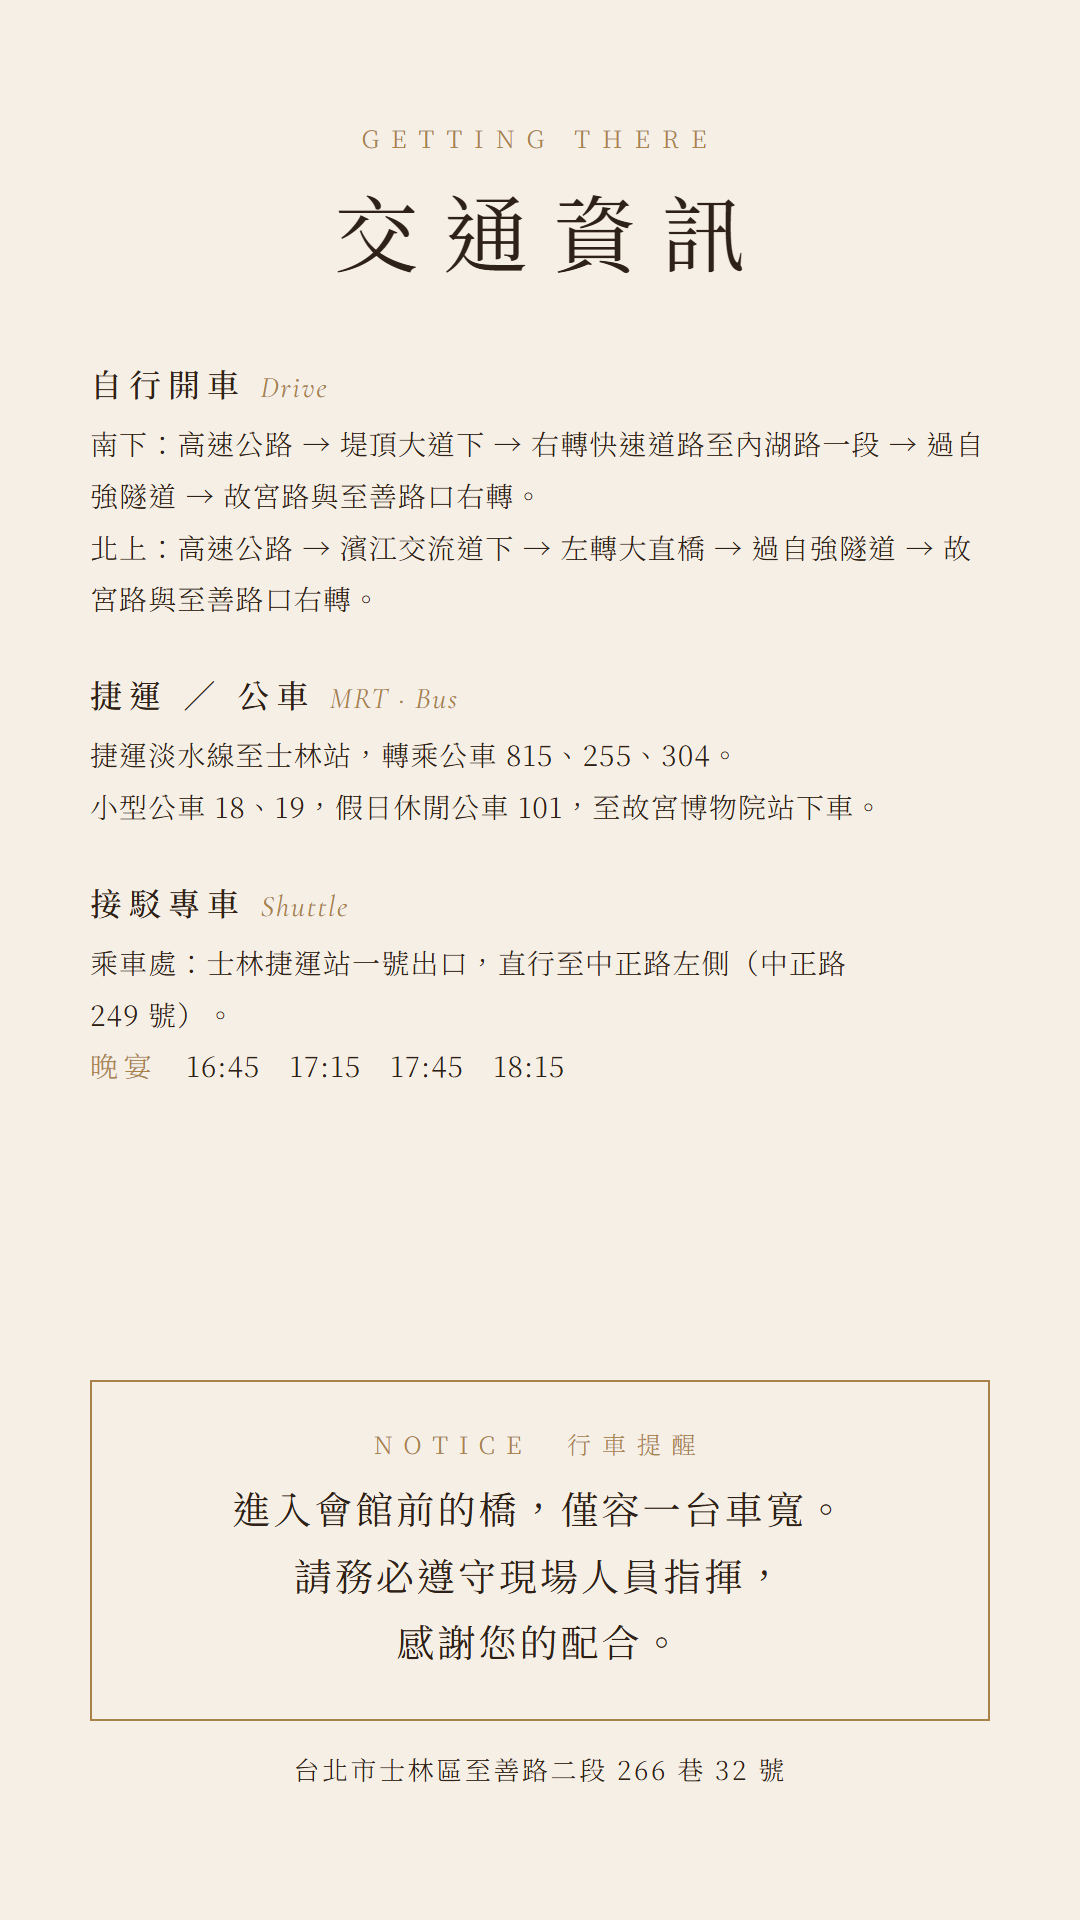
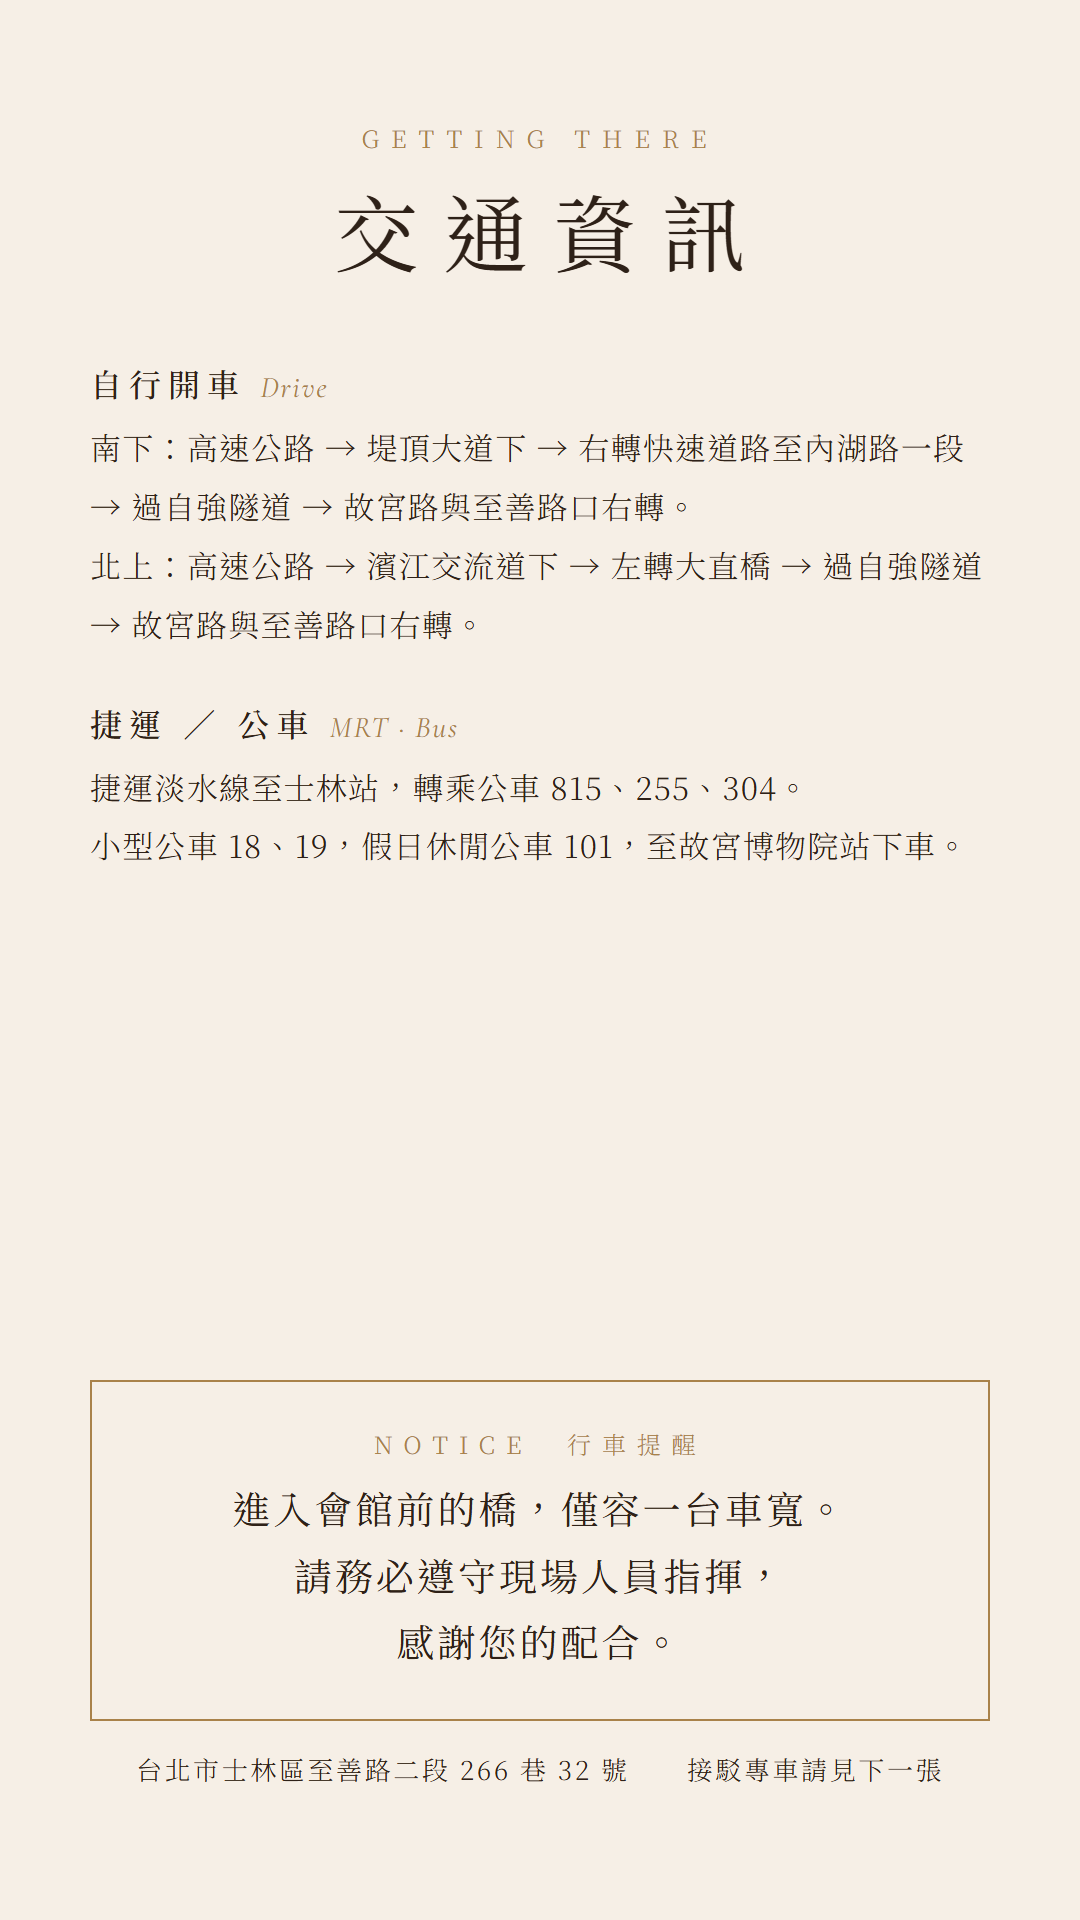
Larger step-by-step shuttle info for elderly guests; add large-print shuttle image

diff --git a/index.html b/index.html
@@ -94,6 +94,21 @@ p{font-size:15px;letter-spacing:.06em}
 .tr p{font-size:14px}
 .times{display:grid;grid-template-columns:auto 1fr;gap:6px 16px;font-size:14px;margin-top:10px}
 .times b{font-weight:400;color:var(--gold);letter-spacing:.2em}
+
+/* shuttle card (large type for elders) */
+.shuttle{background:var(--soft);padding:30px 20px 26px;margin:6px 0 4px;border-top:2px solid var(--gold);text-align:center}
+.sh-t{font-size:24px;font-weight:500;letter-spacing:.2em}
+.sh-t small{font-family:var(--script);font-style:italic;font-weight:400;font-size:18px;color:var(--gold);letter-spacing:.04em;margin-left:8px}
+.sh-lead{font-size:18px;line-height:1.8;margin:12px 0 22px}
+.sh-label{font-size:13px;letter-spacing:.4em;color:var(--gold);margin:6px 0 12px}
+.sh-times{display:grid;grid-template-columns:1fr 1fr;gap:10px}
+.sh-times div{border:1px solid var(--ink);padding:14px 0;font-size:30px;letter-spacing:.08em;font-weight:400;font-variant-numeric:lining-nums tabular-nums;background:var(--bg)}
+.sh-note{font-size:16px;line-height:1.8;margin:14px 0 26px;text-align:left}
+.sh-note b{font-weight:500;color:#7A5A2B}
+.sh-steps{list-style:none;padding:0;text-align:left;margin:0}
+.sh-steps li{display:flex;gap:14px;align-items:flex-start;margin-bottom:16px;font-size:18px;line-height:1.7}
+.sh-steps span{flex:0 0 36px;height:36px;border-radius:50%;background:var(--ink);color:var(--bg);display:flex;align-items:center;justify-content:center;font-size:18px;margin-top:2px}
+.sh-steps b{font-weight:500}
 footer{padding:70px 24px 90px;text-align:center}
 footer .script{font-size:30px}
 footer p{margin-top:10px;font-size:13px;letter-spacing:.3em;color:var(--gold)}
@@ -169,6 +184,29 @@ footer p{margin-top:10px;font-size:13px;letter-spacing:.3em;color:var(--gold)}
     <h2>交通資訊</h2>
   </div>
 
+
+  <div class="shuttle">
+    <div class="sh-t">接駁專車 <small>Shuttle Bus</small></div>
+    <p class="sh-lead">從「士林捷運站」搭專車到會館，<br>不用自己走路或找路。</p>
+
+    <div class="sh-label">發車時間（晚宴）</div>
+    <div class="sh-times">
+      <div>16:45</div><div>17:15</div><div>17:45</div><div>18:15</div>
+    </div>
+    <p class="sh-note">典禮 17:30 開始，<b>建議搭 16:45 或 17:15 的班次</b>，並提早 10 分鐘到乘車處等候。</p>
+
+    <div class="sh-label">怎麼搭</div>
+    <ol class="sh-steps">
+      <li><span>1</span><div>搭捷運<b>淡水線</b>到<b>「士林站」</b></div></li>
+      <li><span>2</span><div>從 <b>1 號出口</b>出站</div></li>
+      <li><span>3</span><div><b>直走</b>，到<b>中正路左側</b><br>（中正路 249 號），找「青青接駁專車」</div></li>
+      <li><span>4</span><div>依發車時間上車</div></li>
+    </ol>
+    <div class="btns" style="margin-top:20px">
+      <a class="btn fill" target="_blank" rel="noopener" href="https://www.google.com/maps/search/?api=1&query=%E5%8F%B0%E5%8C%97%E5%B8%82%E5%A3%AB%E6%9E%97%E5%8D%80%E4%B8%AD%E6%AD%A3%E8%B7%AF249%E8%99%9F">開啟乘車處地圖</a>
+    </div>
+  </div>
+
   <h3>自行開車 <small>Drive</small></h3>
   <ol>
     <li><b style="font-weight:500">南下</b>：高速公路 → 堤頂大道下 → 右轉快速道路至內湖路一段 → 過自強隧道 → 故宮路與至善路口右轉 → 青青食尚花園會館。</li>
@@ -182,9 +220,6 @@ footer p{margin-top:10px;font-size:13px;letter-spacing:.3em;color:var(--gold)}
   <p>捷運淡水線至<b style="font-weight:500">士林站</b>，轉乘公車 815、255、304。<br>
      小型公車 18、19，假日休閒公車 101，至<b style="font-weight:500">故宮博物院站</b>下車。</p>
 
-  <h3>接駁專車 <small>Shuttle</small></h3>
-  <p>乘車處：士林捷運站一號出口，直行至中正路左側（中正路 249 號）。</p>
-  <div class="times"><b>晚宴</b><span>16:45　17:15　17:45　18:15</span></div>
 </section>
 
 <footer class="reveal">
